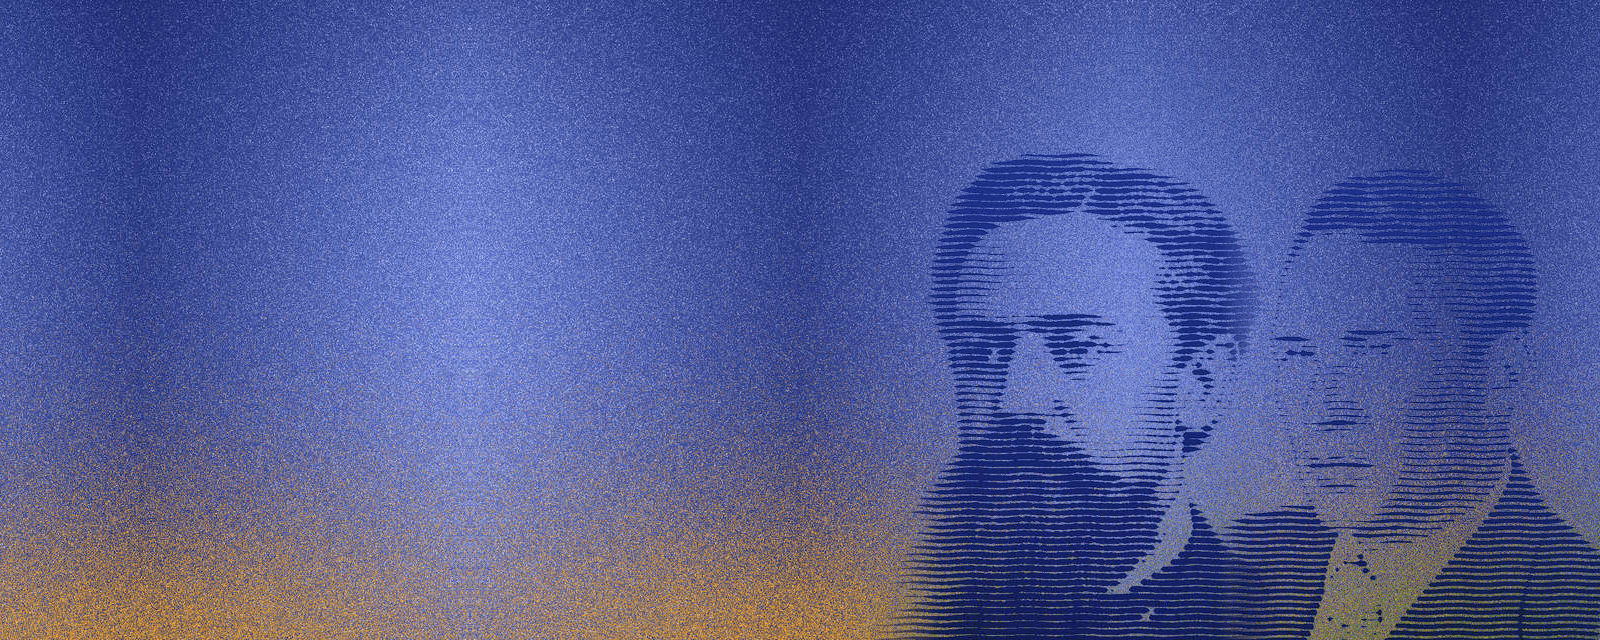
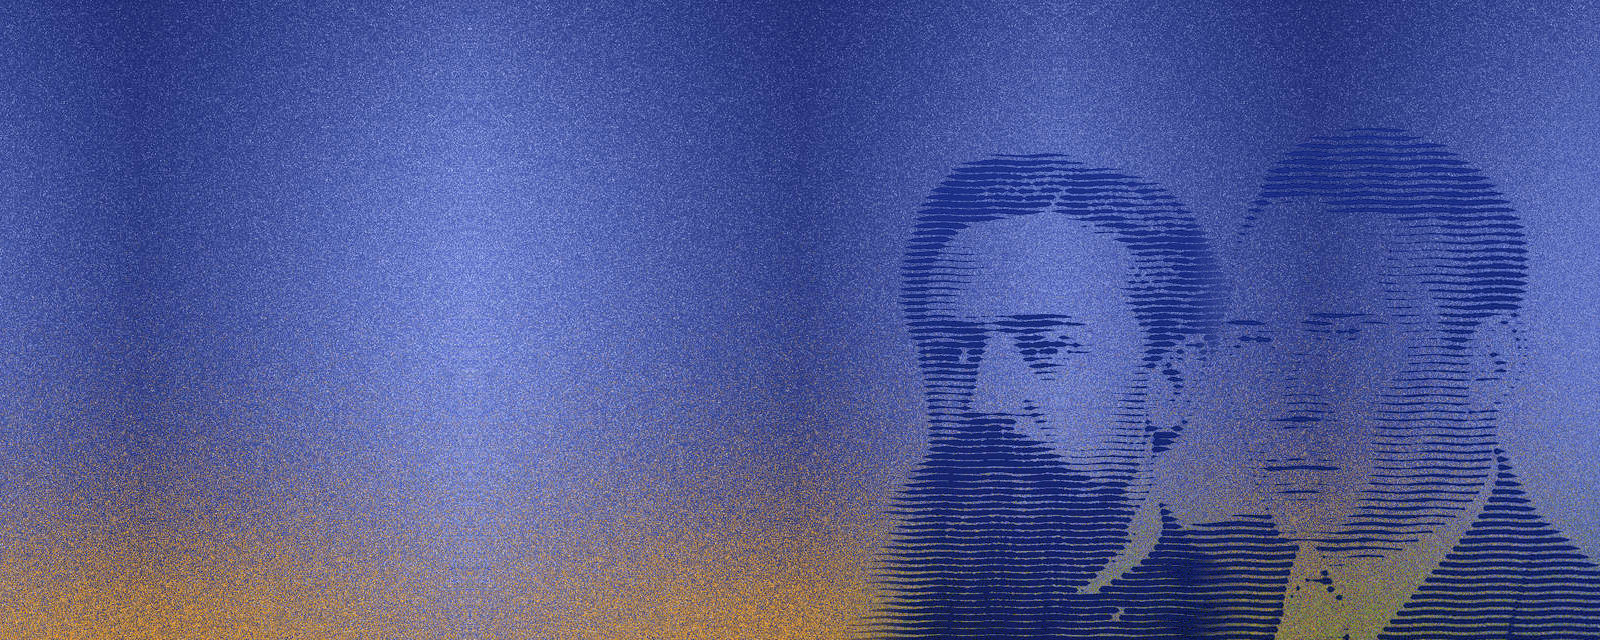
Even portrait sizes

Changed region(s): [[0.5312, 0.0, 1.0, 1.0]]

diff --git a/site/brand/README.md b/site/brand/README.md
@@ -4,8 +4,9 @@
   leaves room for the text; `site/cards.py` recolors it to the brand's tones and adds the
   wordmark, the title, and the release at build time. Each is stored as drawn.
   - `art-pair.jpg`: the launch post's, portraits of Andrey Markov and Andrey Kolmogorov drawn as
-    navy line screens, overlapping, Kolmogorov mirrored to face left (Markov from his 1886
-    portrait, public domain, Wikimedia Commons `File:Andrei_Markov.jpg`).
+    navy line screens, overlapping, Kolmogorov mirrored to face left and scaled so both heads read
+    the same size (Markov from his 1886 portrait, public domain, Wikimedia Commons
+    `File:Andrei_Markov.jpg`).
   - `art-lanes.jpg`: "Why Andrey is fast", lanes rising like a bridge into a starry sky, the
     others moving in short steps while one amber streak runs far ahead.
   - `art-iceberg.jpg`: 0.2.0, an iceberg whose two peaks rise out of the frame and join into one
